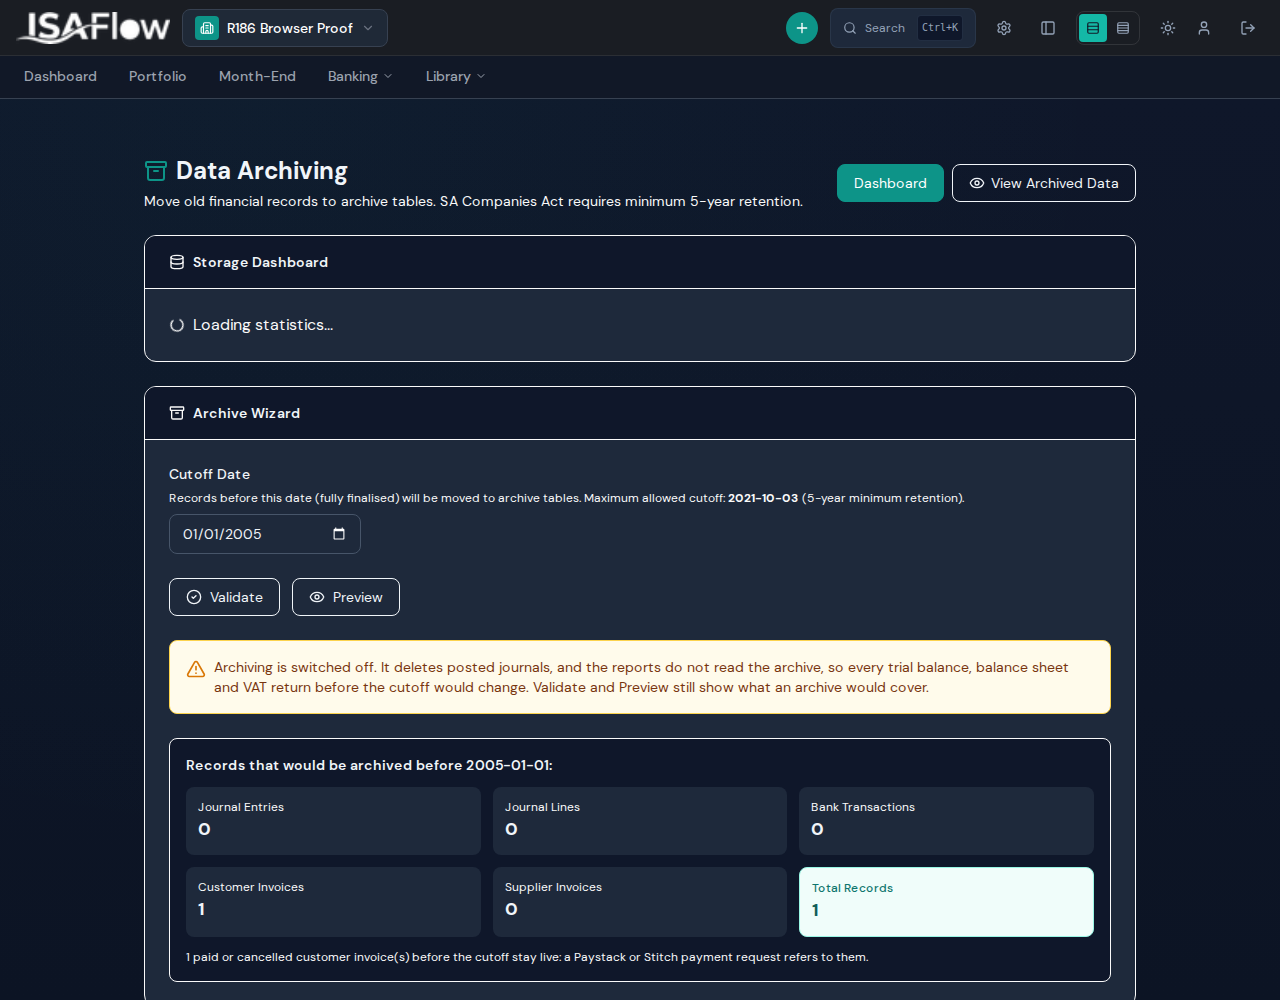
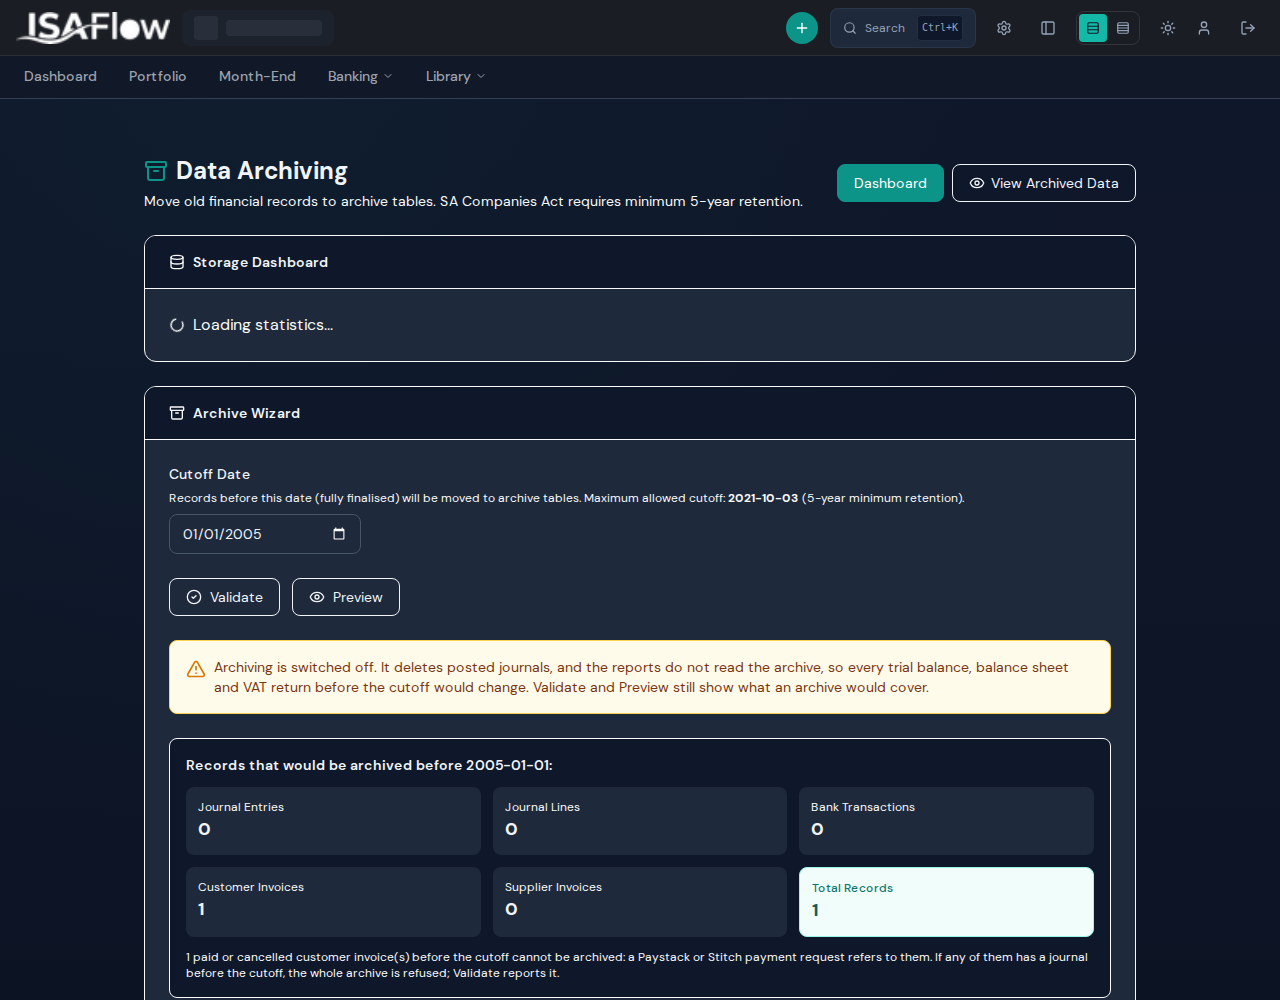
docs(R-186): round-2 addendum evidence, browser proof on the new copy, register

Changed region(s): [[0.125, 0.93, 0.875, 1.0], [0.1562, 0.0, 0.2812, 0.062]]

diff --git a/docs/audits/remediation/R-186/browser-proof.md b/docs/audits/remediation/R-186/browser-proof.md
@@ -1,19 +1,23 @@
 # R-186 browser proof: the archive preview's skipped line
 
-- **Code:** `0ef5c9cd3a41266b2ea49f7ed734329543735624` (committed), worktree `.worktrees/r186`.
+Re-run on 2026-10-03 for the round-2 addendum copy. The first run, on `0ef5c9cd3` with the old
+copy, rendered the same counts.
+
+- **Code:** `df8d76509e533da25ec85505eb5f5343e785fd42` (committed), worktree `.worktrees/r186`.
 - **Server:** `next dev` on port 3286, pointed at `isaflow-fixture-r186` (never dev or prod).
-- **Fixture data:** company "R186 Browser Proof" (`f14f8c49-158d-4326-864d-530ce4e67eca`) with one admin member. It holds two paid
+- **Fixture data:** company "R186 Browser Proof" (`4aec2801-ad6b-4597-a4d7-6cf48d963da9`) with one admin member. It holds two paid
   customer invoices dated 2001-01-01; a completed Paystack request (purpose
   `customer_invoice`) references one of them.
 - **Login:** a staff access token minted with `JWT_SECRET`, as the integration suites mint it.
-  It is HS256 with `aal2`, so no GoTrue call is made. Its cookies (`sb-access-token`,
-  `active_company_id`, `ff_onboarding_done`, `isaflow_remember_me=1`) went into a Playwright
-  storageState in the scratchpad, which was deleted afterwards; neither the token nor the cookies
-  are committed.
+  It is HS256 with `aal2`; an `aal1` token makes the server ask GoTrue, and `/api/auth/me` then
+  answers 503 without `SUPABASE_ANON_KEY`. Its cookies (`sb-access-token`, `active_company_id`,
+  `ff_onboarding_done`, `isaflow_remember_me=1`) went into a Playwright storageState in the
+  scratchpad, which was deleted afterwards; neither the token nor the cookies are committed.
 - **Steps:** load `/accounting/data-archiving` (waitUntil `domcontentloaded`, then wait for the
   cutoff input), set cutoff 2005-01-01, click Preview, wait for the line.
-- **Afterwards:** the dev server was stopped by PID (found with `ss -ltnp` on 3286), and the seeded
-  rows were deleted.
+- **Afterwards:** the dev server was stopped by PID (the next-server listener found with
+  `ss -ltnp` on 3286, plus its node and bunx parents). The port is free and the seeded rows are
+  deleted.
 
 ## Result
 
@@ -35,13 +39,13 @@
     }
   },
   "meta": {
-    "timestamp": "2026-10-03T09:16:17.008Z"
+    "timestamp": "2026-10-03T09:30:48.261Z"
   }
 }
 ```
 
-- Line shown under the preview: "1 paid or cancelled customer invoice(s) before the cutoff stay live: a Paystack or Stitch payment request refers to them."
+- Line shown under the preview: "1 paid or cancelled customer invoice(s) before the cutoff cannot be archived: a Paystack or Stitch payment request refers to them. If any of them has a journal before the cutoff, the whole archive is refused; Validate reports it."
 - Console errors: none.
 
-Screenshot: `browser-proof-preview.png`. The Storage Dashboard card was still loading when the
-full-page shot was taken; it is not part of this change.
+Screenshot: `browser-proof-preview.png`. When the full-page shot was taken, the Storage Dashboard
+card and the company switcher were still loading. Neither is part of this change.

diff --git a/docs/audits/remediation/R-186/fix.md b/docs/audits/remediation/R-186/fix.md
@@ -275,6 +275,15 @@ The Stitch case of the closure suite was added after `red.r3.int.log`. Mutant C8
     selection, so the nested fragments still splice.
   - Mutants on the single definitions are in `mutations.r5.log`.
 
+| Addendum evidence | Result |
+|---|---|
+| `red.r5.component.log` (ac625482a component, new test) | 1 failed / 1 passed (2): the old copy did not mention the refusal |
+| `mutations.r5.log` (b34ba09c2; E10 re-run at df8d76509) | 12 mutants on `eligibleInvoice`, `gatewayReferenced`, the move, the preview count and the line: 12 killed. E10 (the preview count ignoring eligibility) first SURVIVED; company E was added to the preview case (an approved invoice, one paid after the cutoff, an approved referenced one), and it is now RED |
+| `green.r5.int.log` (df8d76509) | five r186 files: 17/17 |
+| `regression.r5.int.log` | k071 + r101 + r181-settlement-amount + five r186 files: 40/40 |
+| `regression.r5.unit.log` | 5 unit files 77/77. Components 29/29 |
+| `browser-proof.md` (df8d76509) | Preview 200, 1 archivable and 1 skipped, the new line rendered, no console errors |
+
 ## Recorded, not changed
 
 - **Copy-then-delete on the other tables (pre-existing; registered as R-192).** See the round-2 addendum.
